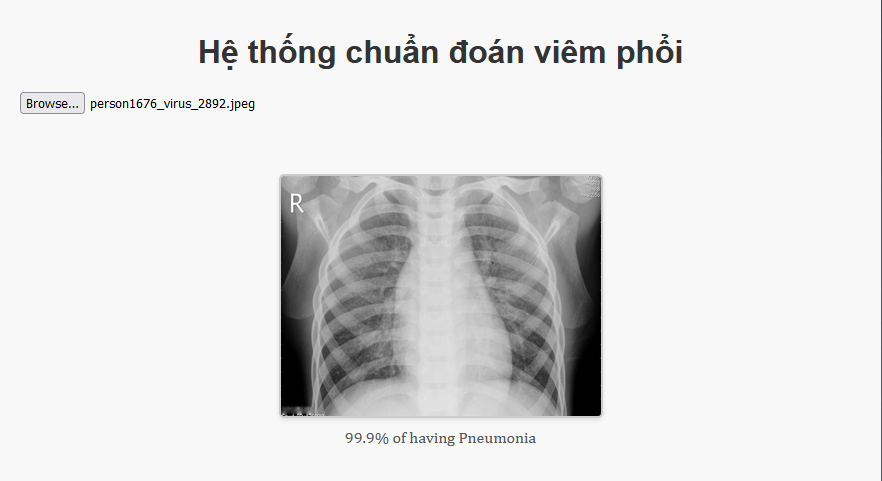
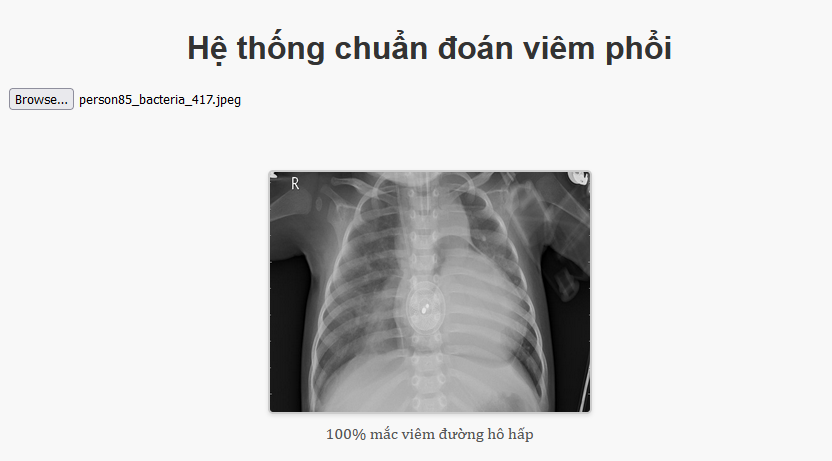
change 2 images

Changed region(s): [[0.3125, 0.3644, 0.7188, 0.9718], [0.2188, 0.0607, 0.8125, 0.1518], [0.0, 0.1822, 0.3125, 0.243]]

diff --git a/script.js b/script.js
@@ -16,11 +16,11 @@ inputFile.addEventListener("change", async (e) => {
     imageReader.onload = async function (e) {
         imageElement.src = e.target.result;
         let pixels = tf.browser.fromPixels(imageElement).resizeBilinear([256, 256]).expandDims(0);
-        result.textContent = "Processing... Please wait a second";
+        result.textContent = "Đang xử lý... Xin đợi 1 lát";
         const model = await loadModel();
         pred = await model.predict(pixels).sigmoid().dataSync()[0];
-        result.textContent = (pred*100).toString().slice(0, 4) + "% of having Pneumonia"
-        console.log((pred*100).toString().slice(0, 4) + "% of having Pneumonia");
+        result.textContent = (pred*100).toString().slice(0, 4) + "% mắc viêm đường hô hấp"
+        console.log((pred*100).toString().slice(0, 4) + "% mắc viêm đường hô hấp");
     }
     imageReader.readAsDataURL(file);
 })
